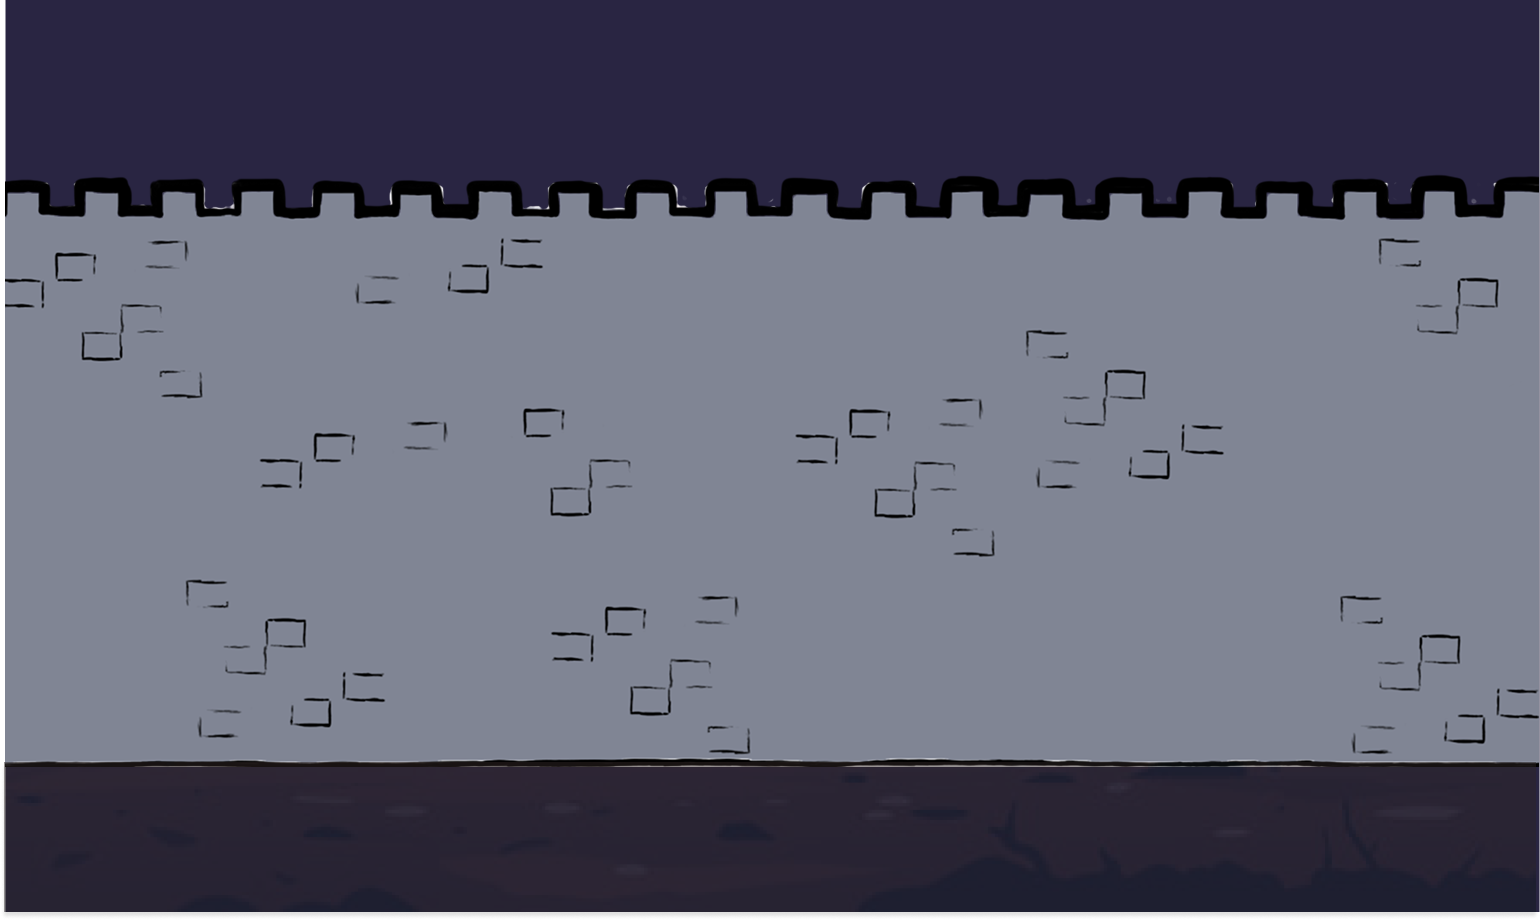
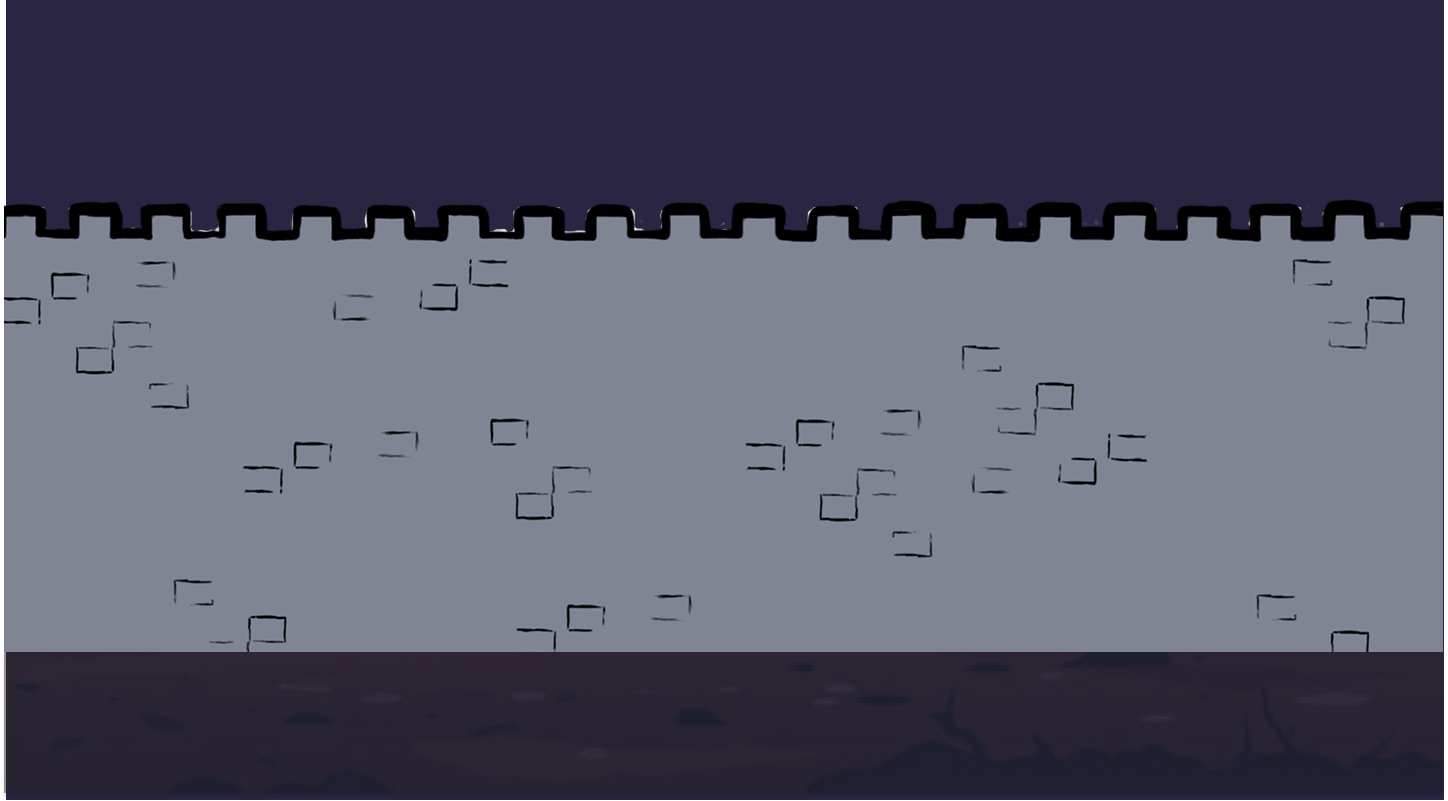
my_changes

diff --git a/public/index.html b/public/index.html
@@ -11,10 +11,12 @@
         body {
             font-family: 'Inter', sans-serif;
             background-image: url('/images/backdrop.png');
-            background-size: cover;
+            background-size: cover; /* ESSENTIAL for zoom/fill */
             background-position: center;
             background-repeat: no-repeat;
-            overflow: hidden; /* Hide scrollbars */
+            background-attachment: fixed; /* Keeps background still */
+            margin: 0; /* Ensures no margin causes a white gap */
+            padding: 0;
         }
         
         /* The "purple box" game panel */
@@ -60,35 +62,38 @@
             filter: drop-shadow(0 0 20px rgba(255, 255, 255, 0.7));
         }
 
-        @keyframes spider-enter {
-            from { opacity: 0; transform: translateY(50px); }
-            to { opacity: 1; transform: translateY(0); }
+        @keyframes slide-wiggle-in {
+            0% {
+                opacity: 0;
+                transform: translateX(100px) rotate(0deg);
+            }
+            50% {
+                opacity: 1;
+                transform: translateX(10px) rotate(2deg);
+            }
+            100% {
+                transform: translateX(0) rotate(-1deg);
+            }
         }
         #spiderImage {
-            animation: spider-enter 1s ease-out;
-            filter: drop-shadow(0 0 15px rgba(239, 68, 68, 0.7));
+            animation: slide-wiggle-in 1.5s ease-out forwards;
         }
 
     </style>
 </head>
 <!-- UPDATED: Removed "justify-center" from the body tag -->
-<body class="min-h-screen p-4 md:p-8 flex items-center text-white">
+<body class="min-h-screen p-4 md:p-8 flex flex-col text-white">
 
     <!-- Main Container -->
     <!-- UPDATED: Added "ml-auto" to push the whole group to the right -->
-    <div class="w-full max-w-7xl h-[80vh] grid grid-cols-1 md:grid-cols-5 gap-8 ml-auto">
-
-        <!-- ********************************** -->
-        <!--     LEFT SIDE: "THE SCENE"         -->
+    <div class="w-full max-w-7xl grid grid-cols-1 md:grid-cols-5 gap-8 ml-auto flex-grow">        <!--     LEFT SIDE: "THE SCENE"         -->
         <!-- ********************************** -->
         <!-- UPDATED: Scene is now col-span-2 (40%) -->
-        <div class="md:col-span-2 h-full relative flex items-center justify-center">
-            
+        <div class="md:col-span-2 h-full relative flex justify-center">            
             <img id="gateImage" src="/images/Gates/main gate.png" alt="Castle Gate" 
-                 class="absolute bottom-0 w-full max-w-md" style="z-index: 10;">
-            
-            <img id="ghostImage" src="/images/Ghosts/ghost 1.png" alt="Ghost" 
-                 class="absolute w-32" style="z-index: 20; left: 20%; top: 30%;">
+                class="absolute bottom-[5%] max-w-xl left-[-40%] transform -translate-x-0" style="z-index: 10;">            
+                <img id="ghostImage" src="/images/Ghosts/ghost 1.png" alt="Ghost" 
+                 class="absolute w-40" style="z-index: 20; left: 20%; top: 30%;">
             
             <img id="spiderImage" src="" alt="Spider" 
                  class="absolute w-40" style="z-index: 30; right: 20%; bottom: 10%;">
